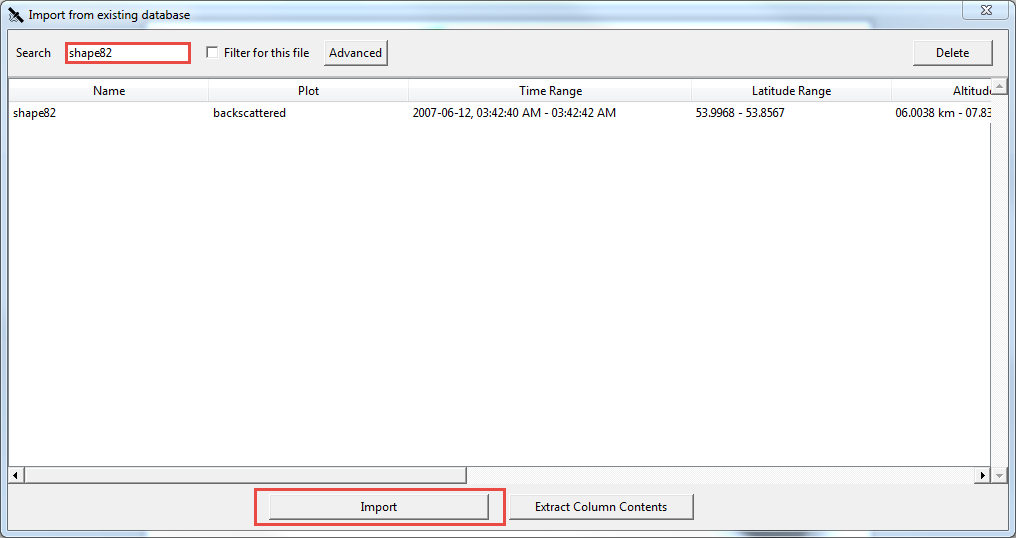
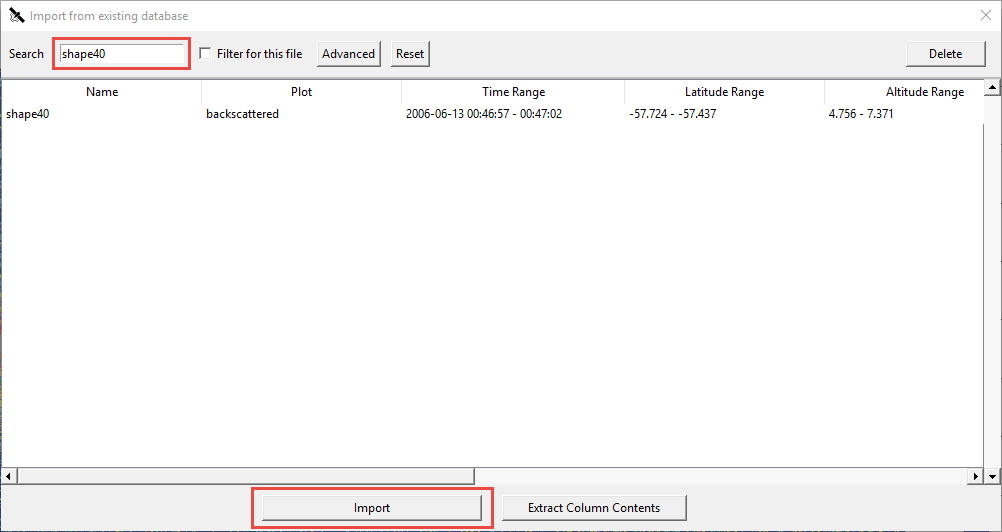
New index.html and refactored tutorial

Changed region(s): [[0.0, 0.0, 1.0, 1.0], [0.1856, 0.1805, 0.2784, 0.2406]]

diff --git a/calipso/Calipso.py b/calipso/Calipso.py
@@ -355,7 +355,7 @@ class Calipso(object):
         if plot_type == Plot.baseplot:
             # Hide the axis and print an image
             self.__shapemanager.set_plot(Plot.baseplot)
-            im = mpimg.imread(PATH + '/dat/CALIPSO.jpg')
+            im = mpimg.imread(PATH + '/dat/grey.jpg')
             self.__fig.get_yaxis().set_visible(False)
             self.__fig.get_xaxis().set_visible(False)
             self.__fig.imshow(im)

diff --git a/docs/source/tutorial.rst b/docs/source/tutorial.rst
@@ -9,22 +9,37 @@ Tool program.
 Interface Layout
 ----------------
 
-Upon first starting VOCAL, you will be greeted with the initial view of the application. The large center most
+Upon first starting VOCAL, you'll be greeted with the initial view of the application. The large center most
 window is the main screen for displaying data from ``.HDF`` files, this will be where you **see** the data.
 
 .. image:: _static/startup.png
    :scale: 40%
 
-The top most menu bar contains three directories: ``file`` , ``polygon`` and ``help``. These are self explanatory,
+The top most menu bar contains four directories: *file* , *edit*, *polygon* and *help*.
 
-* ``file`` allows a user to import an HDF (same as |browse|), save all objects from all plots to a JSON file, save
+* *file* allows a user to import an HDF (same as |browse|), save all objects from all plots to a JSON file, save
   only *visible* objects on the screen to a JSON file, or exit the application.
-* ``polygon`` relates to the database use, see :ref:`database` for more information.
-* ``help`` shows information on the project, and links to this website
+* *edit* offers tools for shape or plot manipulation
+* *polygon* relates to the database use, see :ref:`database` for more information.
+* *help* shows information on the project, and links to this website
 
-Located near the menu and off to the top right you'll find |sele| , this drop down menu is populated with all shapes
-currently drawn to the plot and will highlight the selected shape. If you wish to unselect all shapes, selecting the
-blank field will do so
+Located near the menu and off to the top right you'll find three buttons. |load| will load a JSON file previously
+created by the application, and draw it to the plot.
+
+.. note::
+
+   When loading JSON objects using this feature: the file the shape was created in **must** match the file you
+   currently have loaded, otherwise you'll get an error! We do not allow users to load shapes from JSON files
+   which are from other files than what the user is currently on.
+
+|save| will prompt you for a filename and then save all *selected* objects to that file. There are a number of
+ways to select objects, via the **edit** menu, using |sele| for single objects, or manually selecting objects
+using |csel|.
+
+|sele| is a drop down menu feature for single shape selection. The list is populated with all shapes
+currently drawn to the plot and selecting one from the menu will highlight that single shape. To unselect any
+shapes, you can either select the blank field in the drop down list or use the *deselect all* option in the
+*edit* menu.
 
 Off to the right is the tools window, this window is dedicated to the manipulation of the data displayed to the plot.
 
@@ -175,7 +190,7 @@ selected entries from the database, and this is **permanent**, there's no undo b
 
 So you can go ahead and search either the query *John* to get all notes that include the name john, or
 *shape31* to get the specific shape. All names are **unique**, if at any time you see two shapes with the
-same tag this is a bug on our part please report that issue immediately to us for fixing. So searching for *shape82*
+same tag this is a bug on our part please report that issue immediately to us for fixing. So searching for *shape40*
 will leave you with
 
 .. image:: _static/db_searched.png
@@ -274,6 +289,7 @@ then extract the data from that file and import all objects located in the archi
 .. |hide| image:: _static/hide_button.png
 .. |save| image:: _static/save_button.png
 .. |load| image:: _static/load_button.png
+.. |csel| image:: _static/selection_button.png
 
 .. |rese| image:: _static/reset_button.png
 .. |back| image:: _static/backscattered_button.png
